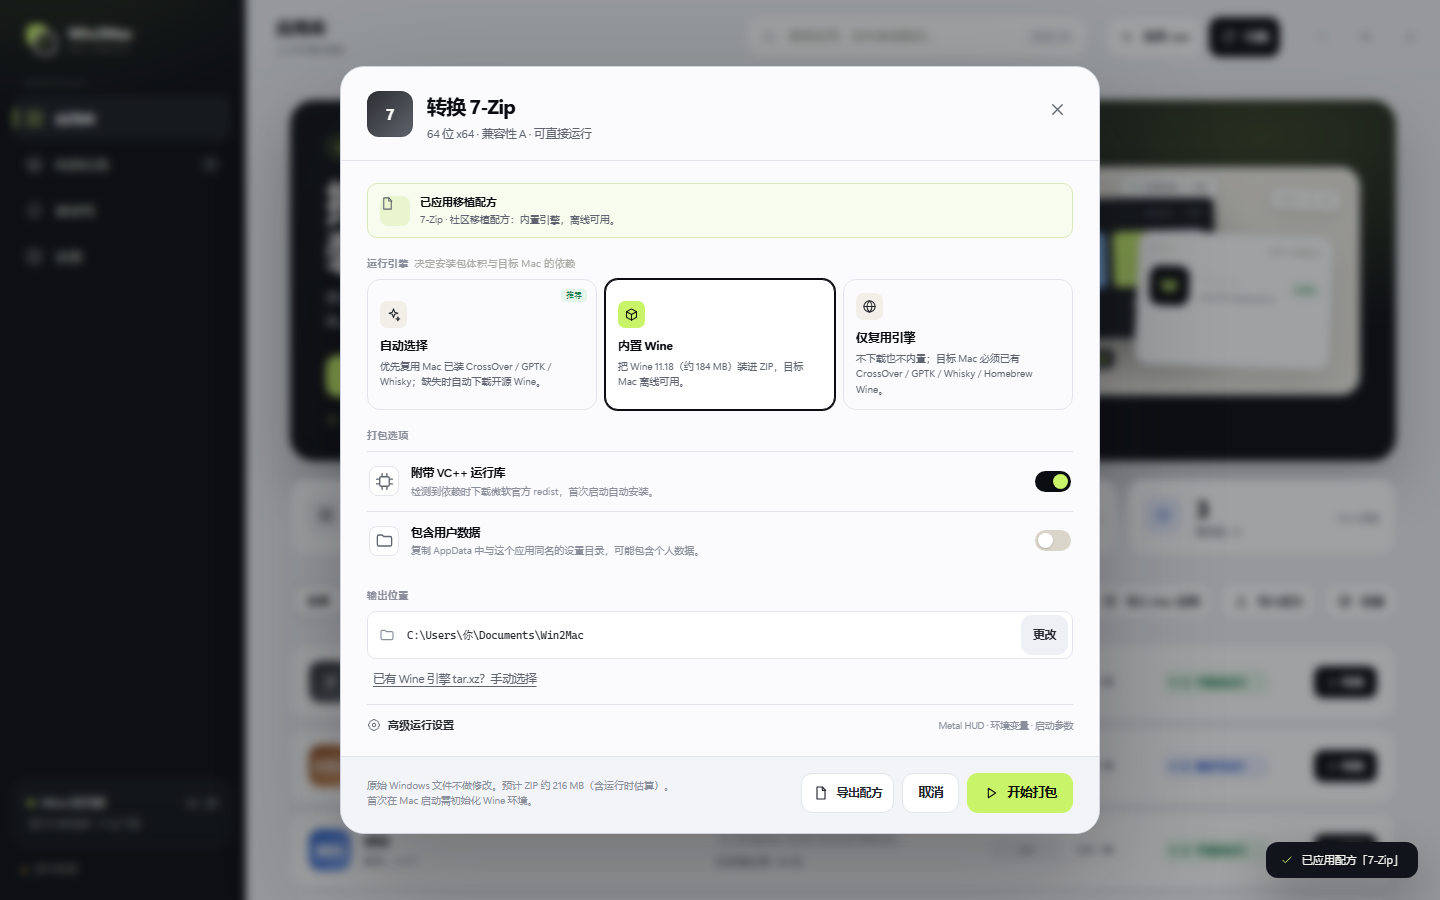
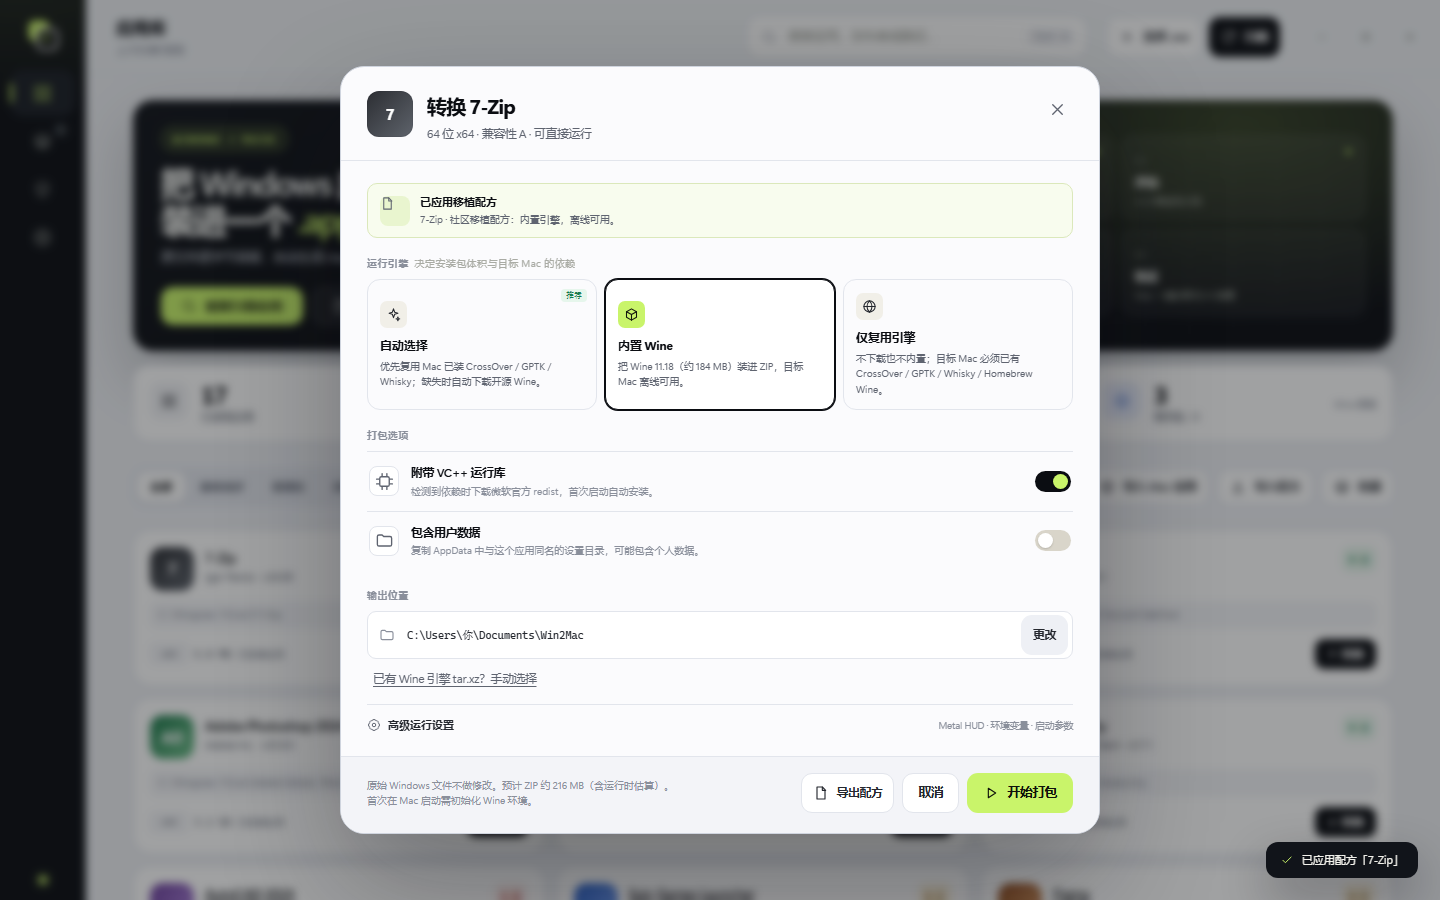
feat(ui): 0.7.0 — 骨架级重构：图标轨道侧栏 + 应用卡片网格
- 侧栏收窄为 86px 图标轨道（绿条/角标/状态点，文字改 tooltip）
- 应用库从卡片流转为 3 列网格卡片（响应式 2/1 列），批量模式保留行
- Hero 紧凑化并新增四步流程面板
- 80/80 单测、E2E、打包 smoke 与逐页截图通过

diff --git a/app/redesign.css b/app/redesign.css
@@ -430,6 +430,25 @@ body {
 @media (max-width: 980px) {
   .library-hero { grid-template-columns: 1fr; }
   .hero-stage { display: none; }
+.library-hero { grid-template-columns: minmax(0, 1.15fr) minmax(240px, .85fr); align-items: center; }
+.hero-flow { display: grid; grid-template-columns: 1fr 1fr; gap: 8px; }
+.flow-step {
+  position: relative;
+  padding: 12px 13px;
+  border-radius: 13px;
+  background: rgba(255, 255, 255, .05);
+  border: 1px solid rgba(255, 255, 255, .09);
+  transition: background var(--duration-normal) var(--ease-out), border-color var(--duration-normal) var(--ease-out);
+}
+.flow-step:hover { background: rgba(255, 255, 255, .08); border-color: rgba(255, 255, 255, .16); }
+.flow-step span { font: 8.5px var(--mono); letter-spacing: .12em; color: #6f7669; }
+.flow-step b { display: block; margin-top: 4px; font-size: 12px; color: #f1f3ec; letter-spacing: -.01em; }
+.flow-step small { display: block; margin-top: 3px; font-size: 9.5px; color: #8d938a; line-height: 1.5; }
+.flow-step.is-done::after {
+  content: ""; position: absolute; top: 13px; right: 13px;
+  width: 5px; height: 5px; border-radius: 50%; background: var(--lime);
+}
+@media (max-width: 1080px) { .hero-flow { display: none; } }
   .app-row { grid-template-columns: minmax(190px, 1.6fr) minmax(0, 1fr) 58px 92px 84px; }
   .app-row .arch-chip { display: none; }
 }
@@ -464,4 +483,112 @@ body {
 @media (prefers-reduced-motion: reduce) {
   .stat-card:hover, .app-row:hover { transform: none; }
   .app-row.row-enter { animation: none !important; }
+}
+
+
+/* ---------- v2.1 skeleton: rail sidebar + grid cards + compact hero ---------- */
+.frame { grid-template-columns: 86px minmax(0, 1fr); }
+.sidebar { padding: 18px 10px 16px; align-items: stretch; }
+.brand { justify-content: center; padding: 0 0 18px; }
+.brand-text { display: none; }
+.sidebar-group { display: none; }
+.nav-item { justify-content: center; padding: 0; height: 46px; border-radius: 13px; }
+.nav-item > span:not(.nav-count) { display: none; }
+.nav-item .nav-count {
+  position: absolute; top: 5px; right: 7px;
+  font-size: 8.5px; padding: 0 5px; line-height: 14px;
+}
+.sidebar-foot { align-items: center; gap: 0; }
+.sidebar-foot .runtime-card, .sidebar-foot .mode-chip { display: none; }
+.sidebar-foot::after {
+  content: ""; width: 8px; height: 8px; border-radius: 50%;
+  background: var(--lime); box-shadow: 0 0 0 4px rgba(201, 244, 106, .14);
+}
+
+.library-hero {
+  grid-template-columns: 1fr;
+  padding: 26px 28px;
+  border-radius: 20px;
+  margin-bottom: 14px;
+}
+.hero-stage { display: none; }
+.library-hero { grid-template-columns: minmax(0, 1.15fr) minmax(240px, .85fr); align-items: center; }
+.hero-flow { display: grid; grid-template-columns: 1fr 1fr; gap: 8px; }
+.flow-step {
+  position: relative;
+  padding: 12px 13px;
+  border-radius: 13px;
+  background: rgba(255, 255, 255, .05);
+  border: 1px solid rgba(255, 255, 255, .09);
+  transition: background var(--duration-normal) var(--ease-out), border-color var(--duration-normal) var(--ease-out);
+}
+.flow-step:hover { background: rgba(255, 255, 255, .08); border-color: rgba(255, 255, 255, .16); }
+.flow-step span { font: 8.5px var(--mono); letter-spacing: .12em; color: #6f7669; }
+.flow-step b { display: block; margin-top: 4px; font-size: 12px; color: #f1f3ec; letter-spacing: -.01em; }
+.flow-step small { display: block; margin-top: 3px; font-size: 9.5px; color: #8d938a; line-height: 1.5; }
+.flow-step.is-done::after {
+  content: ""; position: absolute; top: 13px; right: 13px;
+  width: 5px; height: 5px; border-radius: 50%; background: var(--lime);
+}
+@media (max-width: 1080px) { .hero-flow { display: none; } }
+.hero-copy h1 { font-size: clamp(26px, 2.6vw, 34px); margin: 12px 0 10px; }
+.hero-copy p { max-width: 660px; font-size: 12.5px; line-height: 1.7; }
+.hero-note { display: none; }
+.hero-actions { margin-top: 18px; }
+.hero-actions .btn { height: 38px; }
+
+.app-grid {
+  display: grid;
+  grid-template-columns: repeat(3, minmax(0, 1fr));
+  gap: 12px;
+}
+.app-card {
+  display: flex;
+  flex-direction: column;
+  gap: 11px;
+  padding: 16px;
+  border: 1px solid var(--line);
+  border-radius: 18px;
+  background: var(--card);
+  box-shadow: 0 1px 2px rgba(11, 13, 18, .03);
+  cursor: pointer;
+  transition: transform var(--duration-fast) var(--ease-out), box-shadow var(--duration-normal) var(--ease-out), border-color var(--duration-normal) var(--ease-out);
+}
+.app-card:hover { transform: translateY(-2px); box-shadow: var(--shadow-lift); border-color: var(--line-strong); }
+.app-card:active { transform: translateY(0) scale(.996); }
+.app-card .app-icon { width: 44px; height: 44px; border-radius: 13px; font-size: 15px; }
+.app-card-head { display: flex; align-items: flex-start; gap: 11px; }
+.app-card-title { min-width: 0; flex: 1; }
+.app-card-title b {
+  display: block; font-size: 13.5px; font-weight: 640; letter-spacing: -.015em;
+  overflow: hidden; text-overflow: ellipsis; white-space: nowrap;
+}
+.app-card-title span {
+  display: block; margin-top: 3px; color: var(--muted); font-size: 10.5px;
+  overflow: hidden; text-overflow: ellipsis; white-space: nowrap;
+}
+.app-card-head .grade { flex: none; }
+.app-card-path .path {
+  display: block;
+  font-family: var(--mono);
+  font-size: 9.5px;
+  color: var(--muted-2);
+  background: #f4f5f8;
+  border: 1px solid #eceef3;
+  border-radius: 7px;
+  padding: 5px 8px;
+  white-space: nowrap;
+  overflow: hidden;
+  text-overflow: ellipsis;
+}
+.app-card-foot { display: flex; align-items: center; justify-content: space-between; gap: 8px; margin-top: auto; }
+.app-card-tags { display: flex; align-items: center; gap: 6px; min-width: 0; }
+.app-card-source { font-size: 9.5px; color: var(--muted-2); white-space: nowrap; overflow: hidden; text-overflow: ellipsis; }
+.app-card .row-convert { height: 30px; padding: 0 11px; flex: none; }
+
+@media (max-width: 1280px) {
+  .app-grid { grid-template-columns: repeat(2, minmax(0, 1fr)); }
+}
+@media (max-width: 900px) {
+  .app-grid { grid-template-columns: minmax(0, 1fr); }
 }

diff --git a/app/app.js b/app/app.js
@@ -256,6 +256,37 @@
       </div>`;
   }
 
+
+  function appCardHtml(app, index = 0) {
+    const metadata = [app.publisher, app.version ? `v${app.version}` : ''].filter(Boolean).join(' · ') || '未提供发布信息';
+    const path = app.installPath || app.exePath || '';
+    const size = app.estimatedSizeBytes || app.analysis?.directory?.scannedBytes || 0;
+    const isMac = app.platform === 'mac';
+    const canConvert = Boolean(app.analysis && (app.exePath || isMac) && (!isMac || api.buildWindowsApp));
+    const convertTitle = isMac ? '转换为 Windows 免安装版' : '一键转换为 .app';
+    const arch = app.arch === 'x64' ? 'x64' : app.arch === 'x86' ? 'x86' : app.arch === 'arm64' ? 'ARM64' : isMac && app.arch ? String(app.arch).toUpperCase() : '—';
+    return `
+      <article class="app-card${state.listEntered ? '' : ' row-enter'}"${state.listEntered ? '' : ` style="animation-delay:${Math.min(index, 8) * 28}ms"`} role="button" tabindex="0" data-app-id="${esc(app.id)}" data-app-row="${esc(app.id)}" aria-label="查看 ${esc(app.name)}">
+        <div class="app-card-head">
+          ${iconHtml(app)}
+          <div class="app-card-title">
+            <b>${esc(app.name)}</b>
+            <span>${esc(metadata)}</span>
+          </div>
+          ${gradeBadge(app, true)}
+        </div>
+        <div class="app-card-path"><span class="path" title="${esc(path)}">${esc(path)}</span></div>
+        <div class="app-card-foot">
+          <div class="app-card-tags">
+            <span class="arch-chip">${esc(arch)}</span>
+            <span class="size-cell">${fmtBytes(size)}</span>
+            <span class="app-card-source">${esc(sourceLabel(app))}</span>
+          </div>
+          <button class="row-convert" data-action="convert-app" data-convert-id="${esc(app.id)}" aria-label="转换 ${esc(app.name)}" title="${esc(convertTitle)}" ${canConvert ? '' : 'disabled'}><svg class="icon"><use href="#i-play"></use></svg><span>转换</span></button>
+        </div>
+      </article>`;
+  }
+
   function listHtml() {
     const list = filteredApps();
     if (!state.apps.length) {
@@ -269,7 +300,8 @@
     if (!list.length) {
       return `<div class="list-empty">没有匹配的应用。<button class="link-btn" data-action="reset-filters">清除筛选</button></div>`;
     }
-    return `${list.map((app, index) => appRowHtml(app, index)).join('')}`;
+    if (state.batchMode) return `${list.map((app, index) => appRowHtml(app, index)).join('')}`;
+    return `<div class="app-grid">${list.map((app, index) => appCardHtml(app, index)).join('')}</div>`;
   }
 
   function emptyStateHtml() {
@@ -365,6 +397,12 @@
               <button class="btn btn-ghost btn-lg" data-action="pick-installer"><svg class="icon"><use href="#i-package"></use></svg>从安装包创建</button>
             </div>
             <div class="hero-note"><svg class="icon"><use href="#i-lock"></use></svg>不上传应用 · 不修改原安装 · 产物在本机生成</div>
+          </div>
+          <div class="hero-flow" aria-hidden="true">
+            <div class="flow-step is-done"><span>01</span><b>扫描</b><small>注册表 · 开始菜单 · 服务</small></div>
+            <div class="flow-step is-done"><span>02</span><b>评估</b><small>A–D 兼容性分级</small></div>
+            <div class="flow-step"><span>03</span><b>打包</b><small>.app + ZIP + 完整性清单</small></div>
+            <div class="flow-step"><span>04</span><b>验证</b><small>Mac 一键诊断与 AI 修复</small></div>
           </div>
           <div class="hero-stage" aria-hidden="true">
             <div class="stage-win">

diff --git a/app/demo.js b/app/demo.js
@@ -245,7 +245,7 @@
     isDemo: true,
     info: async () => ({
       name: 'Win2Mac Studio',
-      version: '0.6.0',
+      version: '0.7.0',
       electron: '—',
       node: '—',
       platform: 'win32',
@@ -354,7 +354,7 @@
       const recipe = {
         format: 'win2mac-recipe/v1',
         createdAt: new Date().toISOString(),
-        generator: { name: 'Win2Mac Studio', version: '0.6.0' },
+        generator: { name: 'Win2Mac Studio', version: '0.7.0' },
         app: { name: payload.app?.name || 'Demo App', publisher: payload.app?.publisher || '', version: payload.app?.version || '', exeName: 'app.exe', source: 'registry' },
         match: { name: payload.app?.name || 'Demo App', publisher: payload.app?.publisher || '', exeName: 'app.exe', bits: 64, size: payload.app?.estimatedSizeBytes || 0 },
         compatibility: { grade: payload.analysis?.grade || 'A', label: payload.analysis?.gradeLabel || '', summary: payload.analysis?.gradeSummary || '', recommendedEngine: 'wine' },
@@ -371,7 +371,7 @@
         recipe: {
           format: 'win2mac-recipe/v1',
           createdAt: new Date().toISOString(),
-          generator: { name: 'Win2Mac Studio', version: '0.6.0' },
+          generator: { name: 'Win2Mac Studio', version: '0.7.0' },
           app: { name: target.name, publisher: target.publisher, version: target.version, exeName: '7zFM.exe', source: 'registry' },
           match: { name: target.name, publisher: target.publisher, exeName: '7zFM.exe', bits: 64, size: target.estimatedSizeBytes },
           compatibility: { grade: 'A', label: '可直接运行', summary: '社区验证配方', recommendedEngine: 'wine' },

diff --git a/app/index.html b/app/index.html
@@ -25,16 +25,16 @@
 
     <div class="sidebar-group">Workspace</div>
     <nav class="nav" aria-label="主导航">
-      <button class="nav-item" data-nav="library">
+      <button class="nav-item" data-nav="library" title="应用库">
         <svg class="icon"><use href="#i-grid"></use></svg><span>应用库</span>
       </button>
-      <button class="nav-item" data-nav="tasks">
+      <button class="nav-item" data-nav="tasks" title="转换任务">
         <svg class="icon"><use href="#i-layers"></use></svg><span>转换任务</span><span class="nav-count" id="task-count"></span>
       </button>
-      <button class="nav-item" data-nav="compat">
+      <button class="nav-item" data-nav="compat" title="兼容性">
         <svg class="icon"><use href="#i-shield"></use></svg><span>兼容性</span>
       </button>
-      <button class="nav-item" data-nav="settings">
+      <button class="nav-item" data-nav="settings" title="设置">
         <svg class="icon"><use href="#i-settings"></use></svg><span>设置</span>
       </button>
     </nav>

diff --git a/docs/RELEASE.md b/docs/RELEASE.md
@@ -1,4 +1,4 @@
-# Win2Mac Studio 0.6.0
+# Win2Mac Studio 0.7.0
 
 构建日期：2026-10-29 · Windows x64 · Electron 44.9.0
 
@@ -6,17 +6,24 @@
 
 | 文件 | 说明 |
 |---|---|
-| `release/Win2Mac-Studio-Setup-0.6.0.exe` | NSIS 安装程序（未签名） |
-| `release/win-unpacked-0.6.0/Win2Mac Studio.exe` | 免安装运行版（用于冒烟测试） |
-| `release/Win2Mac-MacCheck-0.6.0.zip` | 可独立发送的 Mac 验证工具包 |
+| `release/Win2Mac-Studio-Setup-0.7.0.exe` | NSIS 安装程序（未签名） |
+| `release/win-unpacked-0.7.0/Win2Mac Studio.exe` | 免安装运行版（用于冒烟测试） |
+| `release/Win2Mac-MacCheck-0.7.0.zip` | 可独立发送的 Mac 验证工具包 |
 | `release/SHA256SUMS.txt` | 以上三者 SHA-256 |
 
-- 安装包大小：120,889,368 bytes（约 115.3 MiB）
[3 lines of base64/hex data omitted]
-- 打包后 smoke：`version=0.6.0, bridge=true, nav=4, cacheGroups=3, ai.leaked=false`；ZIP 导入选中 `Smoke Fixture.exe`
+- 安装包大小：120,890,407 bytes（约 115.3 MiB）
[3 lines of base64/hex data omitted]
+- 打包后 smoke：`version=0.7.0, bridge=true, nav=4, cacheGroups=3, ai.leaked=false`；ZIP 导入选中 `Smoke Fixture.exe`
 - 真实 IPC UI 扫描 smoke：`174 apps / 174 icons / 0 pending / 0 scanError`
+
+## 0.7.0 骨架重构（Studio v2.1）
+
+- **侧栏改为 86px 图标轨道**：选中绿条、任务角标、底部状态点，导航文字改为 tooltip。
+- **应用库改为 3 列卡片网格**（≤1280px 两列、≤900px 单列）：图标/名称/评级/路径 chip/架构/体积/来源/深色转换按钮；批量模式保留紧凑行。
+- **Hero 改为紧凑横幅 + 四步流程面板**（扫描 → 评估 → 打包 → 验证），窄窗自动隐藏。
+- 统计卡、筛选、卡片网格对齐；首屏卡片错峰入场。
 
 ## 0.6.0 界面重构（Studio v2）
 
@@ -108,19 +115,19 @@
 
 诊断 ZIP 包含完整报告、系统/机型/CPU/显卡信息（过滤序列号等）、Info.plist、config.env、bundle.json、manifest、该应用 Wine 日志与失败时的 Integrity.log；不含应用 payload。
 
-独立工具包：`release/Win2Mac-MacCheck-0.6.0.zip`。
+独立工具包：`release/Win2Mac-MacCheck-0.7.0.zip`。
 
 ## 验证结果
 
 - 单元测试 52/52：新增“运行库直接调用、不用 start /wait”“arm64 引擎跳过 Rosetta”“服务依赖用合成 PE”等回归；ZIP 解压、恶意路径、配方/拖拽/缓存/Darwin 启动器/Mac 验证收集器/LF 行尾测试继续通过。
 - E2E 通过：notepad 打包、ZIP UTF-8/0755、注册表、内置引擎、运行时下载/SHA/缓存、VC++、安装器、CLI 配方构建；新增“引擎路径不能被日志污染”断言。
-- 打包后 smoke（0.6.0 便携版）：`archive.exe=Smoke Fixture.exe`、不含 `Uninstall`，`bridge=true / nav=4 / cacheGroups=3`。
+- 打包后 smoke（0.7.0 便携版）：`archive.exe=Smoke Fixture.exe`、不含 `Uninstall`，`bridge=true / nav=4 / cacheGroups=3`。
 - 真实 IPC 扫描：174 应用、174 图标、0 待分析、0 scanError。
 - 用实际 `客源雷达` ZIP（109 文件，根目录含 210 MB 主程序与 517 KB 卸载器）复现：主程序识别为 `客源雷达.exe`。
 
 ## 安装与运行
 
-1. 运行 `Win2Mac-Studio-Setup-0.6.0.exe`。安装包未签名，SmartScreen 可能要求“更多信息 → 仍要运行”。
+1. 运行 `Win2Mac-Studio-Setup-0.7.0.exe`。安装包未签名，SmartScreen 可能要求“更多信息 → 仍要运行”。
 2. 转换后把 ZIP 原样拷到 Mac，用 Finder 解压，双击 `Open-Win2Mac-App.command`。
 3. 若朋友侧报错，让他双击 `Start-Mac-Validation.command`，把桌面诊断 ZIP 发回。
 

diff --git a/README.md b/README.md
@@ -70,7 +70,7 @@ Windows 应用迁移到 Mac，现有工具几乎都在 Mac 端操作（Whisky、
 
 ### 最终用户（Windows 10/11 x64）
 
-1. 从 [GitHub Releases](https://github.com/cv-superding/win2mac-studio/releases) 下载并运行 `Win2Mac-Studio-Setup-0.6.0.exe`（未签名，SmartScreen 可能提示“更多信息 → 仍要运行”）。
+1. 从 [GitHub Releases](https://github.com/cv-superding/win2mac-studio/releases) 下载并运行 `Win2Mac-Studio-Setup-0.7.0.exe`（未签名，SmartScreen 可能提示“更多信息 → 仍要运行”）。
 2. 打开应用，点击“扫描已安装应用”。
 3. 点选应用查看分级与原因；确认后点“一键转换为 .app”。也可以在「设置」中改默认引擎，或用“批量”多选后队列转换。
 4. 有安装包时点“从安装包创建”，选择 `.exe`/`.msi`，填写预期主程序名（推荐）后打包；首次在 Mac 启动会自动运行安装器。
@@ -108,7 +108,7 @@ npm install
 npm run dist
 ```
 
-输出在 `release/Win2Mac-Studio-Setup-0.6.0.exe`。构建时 electron-builder 需要网络下载 NSIS 工具链；CI/国内网络请配置代理。
+输出在 `release/Win2Mac-Studio-Setup-0.7.0.exe`。构建时 electron-builder 需要网络下载 NSIS 工具链；CI/国内网络请配置代理。
 
 ## 三种引擎策略
 
@@ -183,7 +183,7 @@ npm run test:e2e :: 打包/首启二启/引擎下载/安装器工作流
 - 内置引擎：真实 xz 解压、缓存、引擎路径发现与启动；Gcenx Wine 11.18 真实下载、SHA-256 校验、内置包生成（186 MB ZIP）。
 - 运行时引擎下载：本地 HTTP 下载 → SHA-256 → 解压 → 启动；第二次启动复用缓存且不重复下载。
 - VC++ 运行时：真实下载 + Microsoft Authenticode 校验 + 模拟安装流程；Windows 服务依赖改为 C 级提示，不再误判 D。
-- 打包后的 Electron 应用通过无窗口 smoke test（preload 桥接、四个导航页面、版本 0.6.0）；真实 IPC 扫描 UI 也通过离屏 smoke-scan（172 应用 / 172 图标 / 0 分析挂起）。
+- 打包后的 Electron 应用通过无窗口 smoke test（preload 桥接、四个导航页面、版本 0.7.0）；真实 IPC 扫描 UI 也通过离屏 smoke-scan（172 应用 / 172 图标 / 0 分析挂起）。
 
 **macOS CI**：仓库内提供 [`.github/workflows/macos-verify.yml`](.github/workflows/macos-verify.yml)，在 `macos-14`/`macos-15` 上跑 `bash -n`、单元测试与真实 Darwin 启动器模拟。另有手动 `macos-real-smoke.yml`，只能在有 GUI/WindowServer 的 self-hosted Mac 上运行；GitHub 托管 Runner 无图形会话，Wine 无法启动 `win32k.sys`，不能验证真实窗口。
 

diff --git a/CHANGELOG.md b/CHANGELOG.md
@@ -1,5 +1,14 @@
 # Changelog
 
+## 0.7.0 — 2026-10-29
+
+### Changed
+
+- **骨架级重构**：侧栏改为 86px 图标轨道（选中绿条、任务角标、底部状态点），导航文字改为 tooltip；顶栏标题保留，内容区更宽。
+- **应用库改为 3 列卡片网格**（≤1280px 两列、≤900px 单列）：图标/名称/评级/路径 chip/架构/体积/来源/转换按钮；批量模式仍为紧凑行。
+- **Hero 改为紧凑横幅 + 流程面板**：右侧 01 扫描 → 02 评估 → 03 打包 → 04 验证，窄窗自动隐藏。
+- 统计卡、工具栏、筛选与卡片网格对齐；首屏错峰动画作用于卡片。
+
 ## 0.6.0 — 2026-10-29
 
 ### Changed

diff --git a/docs/MACOS-TESTING.md b/docs/MACOS-TESTING.md
@@ -17,7 +17,7 @@
 
 ## 1. 拷贝与解压
 
-1. 把 `release/Win2Mac-Studio-Setup-0.6.0.exe` 生成的 ZIP 原样拷到 Mac（不要经过会重写文件的同步盘）。
+1. 把 `release/Win2Mac-Studio-Setup-0.7.0.exe` 生成的 ZIP 原样拷到 Mac（不要经过会重写文件的同步盘）。
 2. 用 **Finder** 双击解压。
 3. 进入解压目录，先运行：
 

diff --git a/docs/RECIPE.md b/docs/RECIPE.md
@@ -8,7 +8,7 @@
 {
   "format": "win2mac-recipe/v1",
   "createdAt": "2026-10-28T08:00:00.000Z",
-  "generator": { "name": "Win2Mac Studio", "version": "0.6.0" },
+  "generator": { "name": "Win2Mac Studio", "version": "0.7.0" },
   "app": {
     "name": "7-Zip",
     "publisher": "Igor Pavlov",
